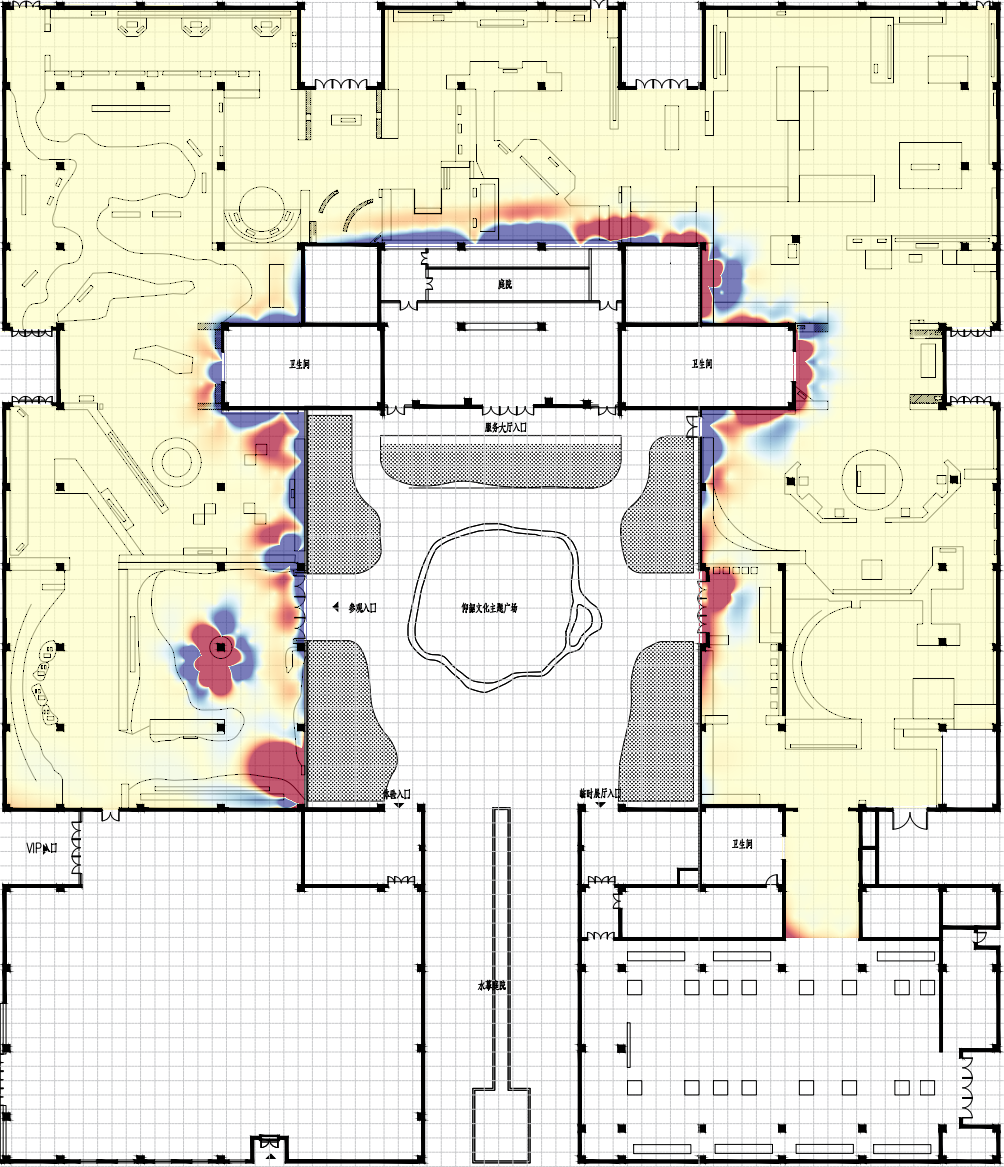
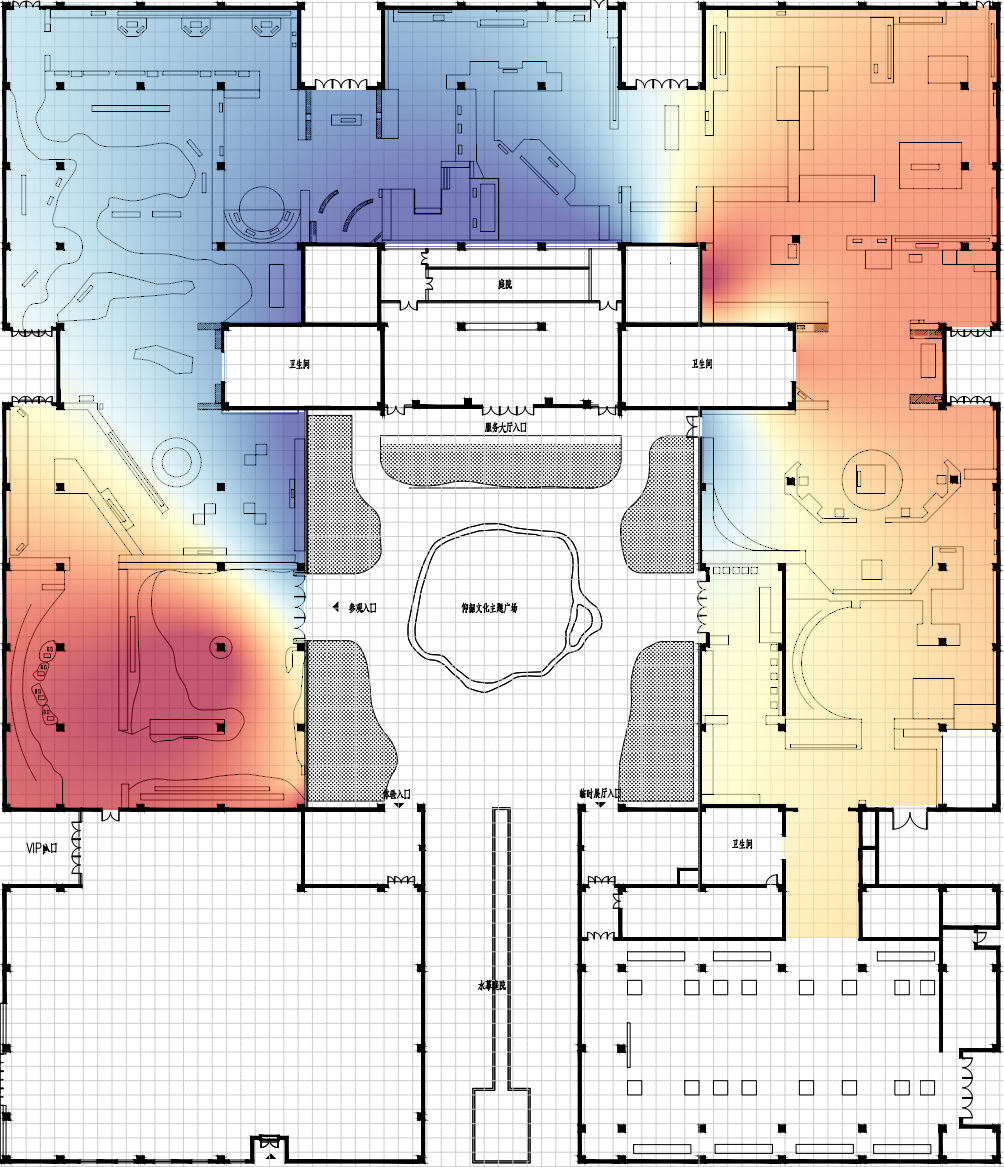
fix: RBF插值热力图修复 - 去除填充均值点，改用nearest填洞
参考原始RBF渲染思路：
- 移除填充均值点逻辑（均值点会破坏插值场形状）
- RBF插值后在coverage区域内用nearest方法填洞
  保证coverage区域全部有值，无需人为添加点
- 叠加逻辑改为：只对fill_mask区域做alpha叠加
  背景区域严格保持原图
- 插值场形状完全由真实测点决定，不被均值拉平

diff --git a/api/analysis.py b/api/analysis.py
@@ -3331,29 +3331,7 @@ def _make_rbf_overlay(img_arr, x, y, values, alpha=0.65, cmap='RdYlBu_r',
     if len(values) < 3:
         return img_arr / 255.0, None, None, None
 
-    # ── 有 coverage_mask：在非background区域填充均值点 ──────────────────────
-    if coverage_mask is not None:
-        fill_mask = coverage_mask.astype(bool)
-        
-        # 计算原始数据的均值，作为填充点的值
-        fill_value = float(np.mean(values))
-        
-        # 计算填充点间隔
-        data_area = np.sum(fill_mask)
-        avg_spacing = int(np.sqrt(data_area / max(len(x), 1)))
-        fill_spacing = max(int(avg_spacing * 2), 20)  # 填充点更稀疏
-        
-        # 在 coverage_mask=True 区域均匀撒均值点
-        fill_y, fill_x = np.where(fill_mask)
-        sample_indices = np.arange(0, len(fill_x), fill_spacing)
-        fill_x_sampled = fill_x[sample_indices].astype(float)
-        fill_y_sampled = fill_y[sample_indices].astype(float)
-        
-        # 合并原始数据点和填充的均值点
-        x = np.concatenate([x, fill_x_sampled])
-        y = np.concatenate([y, fill_y_sampled])
-        values = np.concatenate([values, np.full(len(fill_x_sampled), fill_value)])
-
+    # 原始测点坐标（像素空间）
     pts = np.column_stack([x, y])
     grid_x, grid_y = np.meshgrid(np.arange(w, dtype=float), np.arange(h, dtype=float))
     grid_pts = np.column_stack([grid_x.ravel(), grid_y.ravel()])
@@ -3371,12 +3349,31 @@ def _make_rbf_overlay(img_arr, x, y, values, alpha=0.65, cmap='RdYlBu_r',
         rbf = RBFInterpolator(pts, values, **rbf_kwargs)
         field = rbf(grid_pts).reshape(h, w)
     except Exception:
-        # 兜底：退回到较稳定的 linear + nearest 填洞思路
         from scipy.interpolate import griddata
         field = griddata(pts, values, (grid_x, grid_y), method='linear')
         field_nearest = griddata(pts, values, (grid_x, grid_y), method='nearest')
         field = np.where(np.isnan(field), field_nearest, field)
 
+    # coverage_mask 区域内用 nearest 填洞，确保整个可测区域都有值（不填均值点）
+    if coverage_mask is not None:
+        fill_mask = coverage_mask.astype(bool)
+        nan_in_fill = fill_mask & ~np.isfinite(field)
+        if np.any(nan_in_fill):
+            from scipy.interpolate import griddata
+            known_mask = fill_mask & np.isfinite(field)
+            if np.any(known_mask):
+                ky, kx = np.where(known_mask)
+                kv = field[known_mask]
+                ny, nx = np.where(nan_in_fill)
+                filled = griddata(
+                    np.column_stack([kx, ky]),
+                    kv,
+                    np.column_stack([nx, ny]),
+                    method='nearest'
+                )
+                field[nan_in_fill] = filled
+
+    # walkable_mask 仅用于抑制墙体渗透
     effective_mask = merge_masks(walkable_mask, coverage_mask)
     if effective_mask is not None:
         walk = effective_mask.astype(bool)
@@ -3402,21 +3399,18 @@ def _make_rbf_overlay(img_arr, x, y, values, alpha=0.65, cmap='RdYlBu_r',
     cm = _get_cmap(cmap)
     img_f = img_arr / 255.0
 
-    # ── 有 coverage_mask：整个区域都有插值数据（含均值点），直接渲染 ──────────
+    # ── 有 coverage_mask：仅在 fill_mask 区域叠加热力色 ──────────────────────
     if coverage_mask is not None:
         fill_mask = coverage_mask.astype(bool)
-        
+
         heat_rgba = cm(field_norm)
         heat_rgb = heat_rgba[:, :, :3]
-        
-        # 整个 fill_mask 区域都用热力色渲染（包括均值区域）
+
+        # 只对 fill_mask 区域做 alpha 叠加，背景区域保持原图
         overlay = img_f.copy()
-        # 扩展 alpha 到 3 通道
-        alpha_3d = np.full((h, w, 1), alpha, dtype=float)
-        # 对整个图像做混合
-        overlay = img_f * (1 - alpha_3d) + heat_rgb * alpha_3d
-        # 确保 fill_mask 外的区域保持原图
-        overlay[~fill_mask] = img_f[~fill_mask]
+        overlay[fill_mask] = (
+            img_f[fill_mask] * (1 - alpha) + heat_rgb[fill_mask] * alpha
+        )
 
         return np.clip(overlay, 0, 1), field, vmin, vmax
 